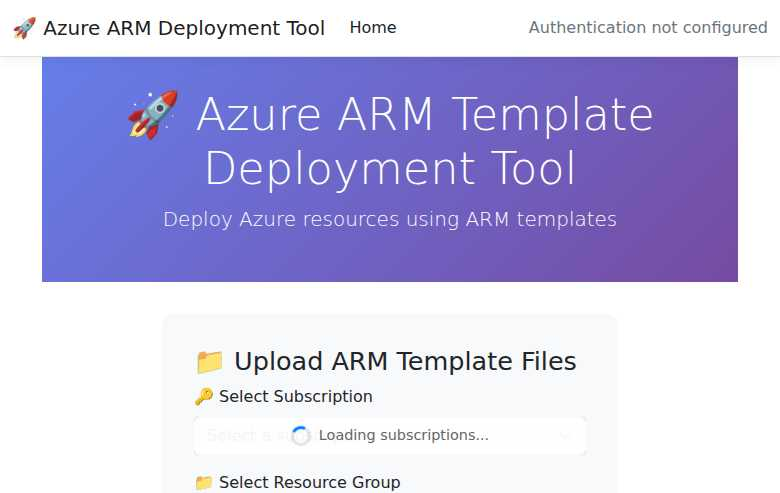
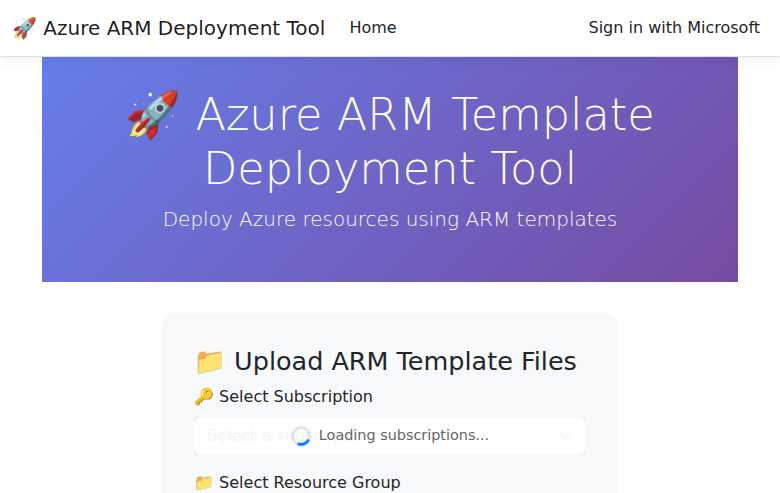
Update screenshots to show proper authentication UI instead of 'not configured' message

Changed region(s): [[0.6769, 0.0304, 0.9846, 0.0913], [0.3692, 0.8519, 0.4, 0.9128]]

diff --git a/README.md b/README.md
@@ -2,7 +2,7 @@
 
 A modern .NET 8 MVC web application that simplifies Azure resource deployment through ARM templates with a beautiful, user-friendly interface.
 
-![Homepage](https://github.com/user-attachments/assets/81f15600-0c81-4066-a3be-fcef3883c825)
+![Homepage](https://github.com/user-attachments/assets/e7ff3081-68ed-4e06-93e3-047380c17e41)
 
 ## 🌟 What This Repository Contains
 
@@ -18,10 +18,10 @@ This repository provides a complete solution for deploying Azure resources throu
 ## 📸 Application Screenshots
 
 ### Homepage - Authentication Required
-![Homepage](https://github.com/user-attachments/assets/81f15600-0c81-4066-a3be-fcef3883c825)
+![Homepage](https://github.com/user-attachments/assets/e7ff3081-68ed-4e06-93e3-047380c17e41)
 
 ### Deployment Interface
-![Deployment Page](https://github.com/user-attachments/assets/7f3bb36e-6ab2-414c-ad3a-01be769e025d)
+![Deployment Page](https://github.com/user-attachments/assets/6b6ce7be-02ec-48c9-8cb2-6d648e5160e3)
 
 ## 🏗 Architecture & Technical Overview
 
